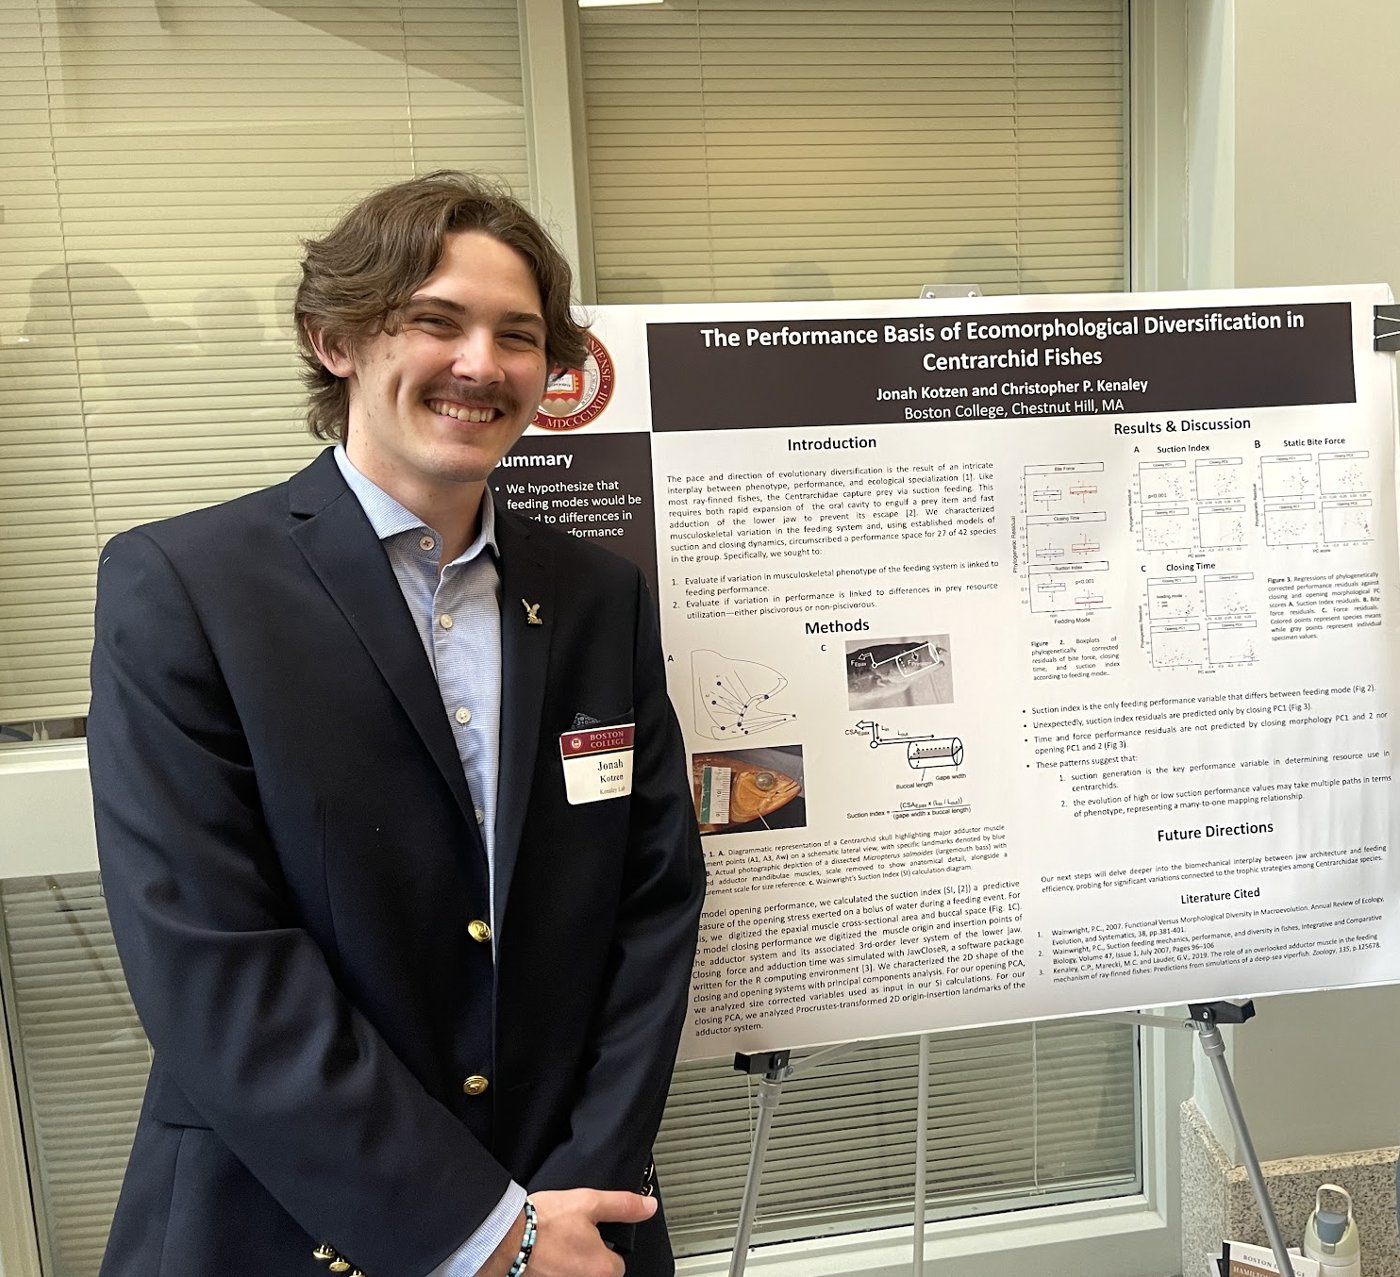
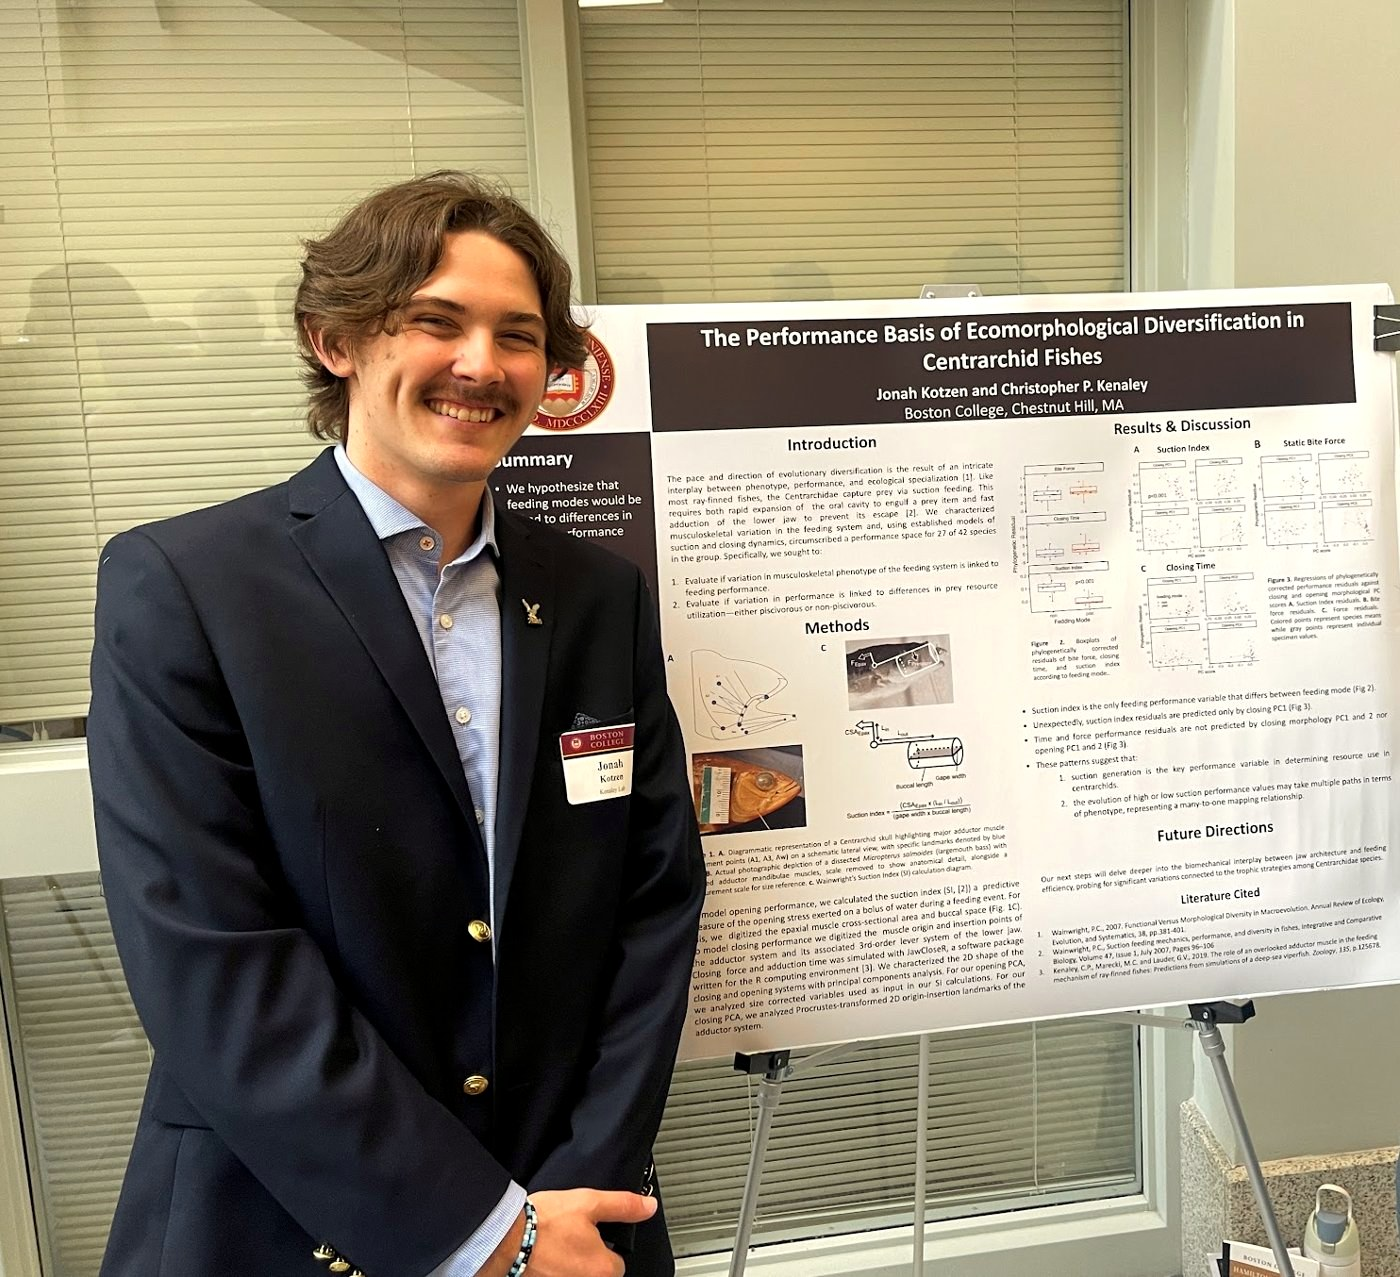
Warm up skin tones in both poster-session photos (#36)

Changed region(s): [[0.2457, 0.1832, 0.3993, 0.397], [0.3686, 0.9162, 0.4607, 1.0]]

diff --git a/index.html b/index.html
@@ -547,7 +547,7 @@ footer .fine{flex-basis:100%;font-family:var(--mono);font-size:.7rem;color:var(-
     <div class="sub gap indent" id="talks"><h3>Talks &amp; posters</h3><p class="mono">Presentations</p></div>
     <div class="indent">
       <div class="feature">
-        <a class="thumb" href="media/poster.jpg"><img src="media/poster-session.jpg" alt="Jonah standing beside his poster, The Performance Basis of Disruptive Selection in Spadefoot Toad Tadpoles, at the regional SICB meeting" loading="lazy"></a>
+        <a class="thumb" href="media/poster.jpg"><img src="media/poster-session.jpg?v=2" alt="Jonah standing beside his poster, The Performance Basis of Disruptive Selection in Spadefoot Toad Tadpoles, at the regional SICB meeting" loading="lazy"></a>
         <div>
           <span class="pill done" style="margin-left:0">Latest poster · Nov 2026</span>
           <h3>The performance basis of disruptive selection in spadefoot toad tadpoles</h3>
@@ -557,7 +557,7 @@ footer .fine{flex-basis:100%;font-family:var(--mono);font-size:.7rem;color:var(-
         </div>
       </div>
       <div class="feature">
-        <a class="thumb" href="media/centrarchid-poster.pdf"><img src="media/centrarchid-session.jpg" alt="Jonah in a navy blazer smiling beside his poster, The Performance Basis of Ecomorphological Diversification in Centrarchid Fishes, at Boston College" loading="lazy"></a>
+        <a class="thumb" href="media/centrarchid-poster.pdf"><img src="media/centrarchid-session.jpg?v=2" alt="Jonah in a navy blazer smiling beside his poster, The Performance Basis of Ecomorphological Diversification in Centrarchid Fishes, at Boston College" loading="lazy"></a>
         <div>
           <span class="pill" style="margin-left:0">Undergrad poster · May 2024</span>
           <h3>The performance basis of ecomorphological diversification in centrarchid fishes</h3>
